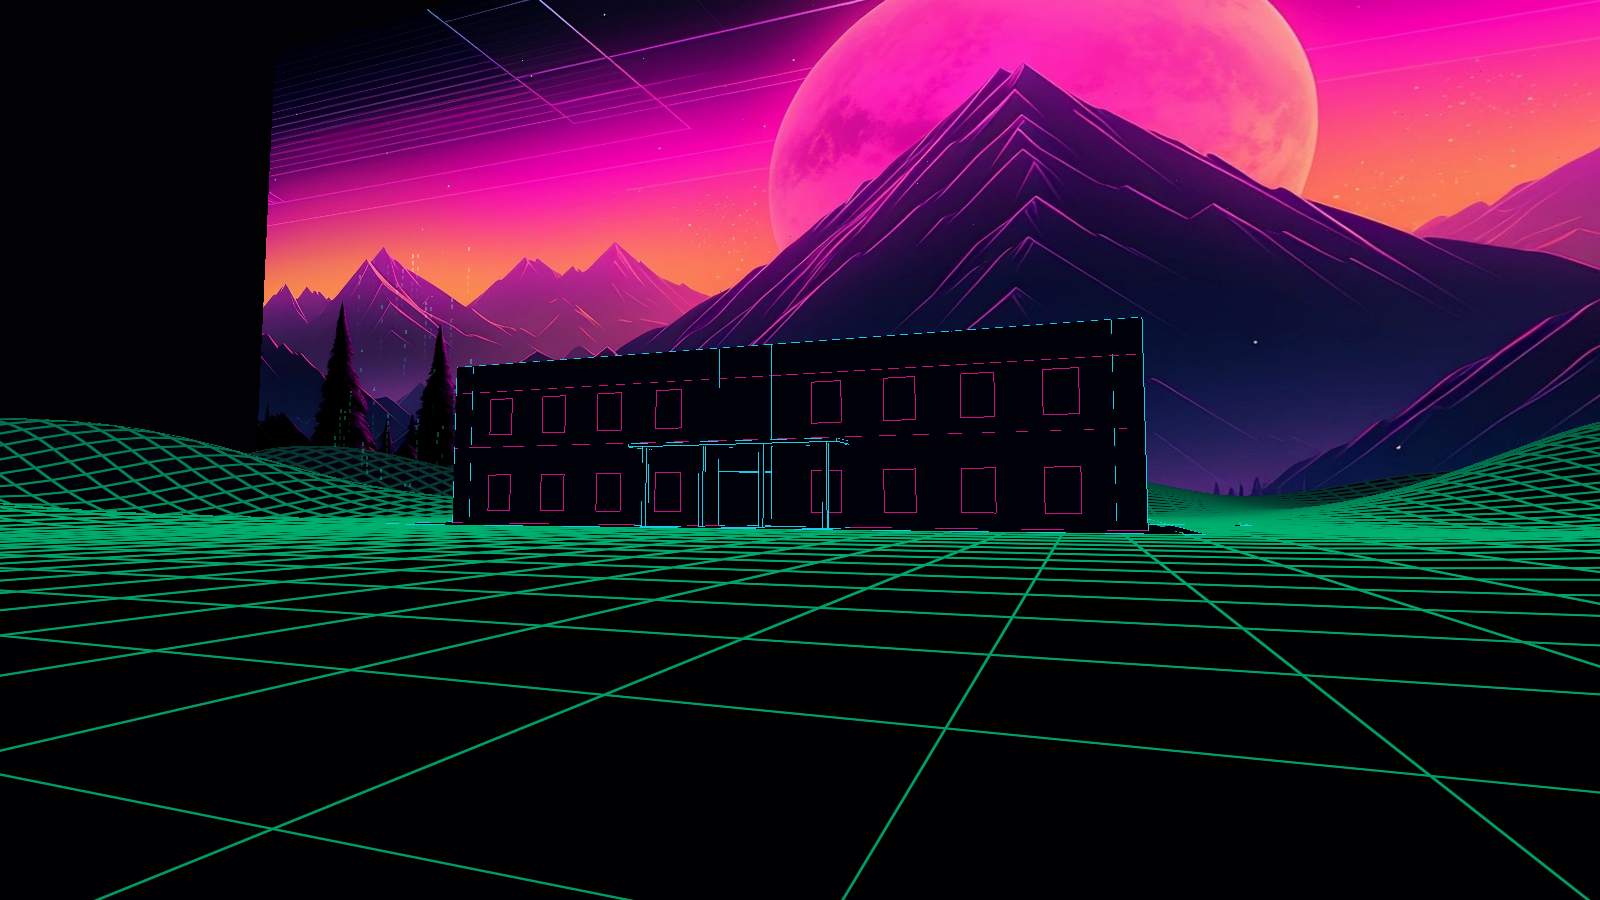
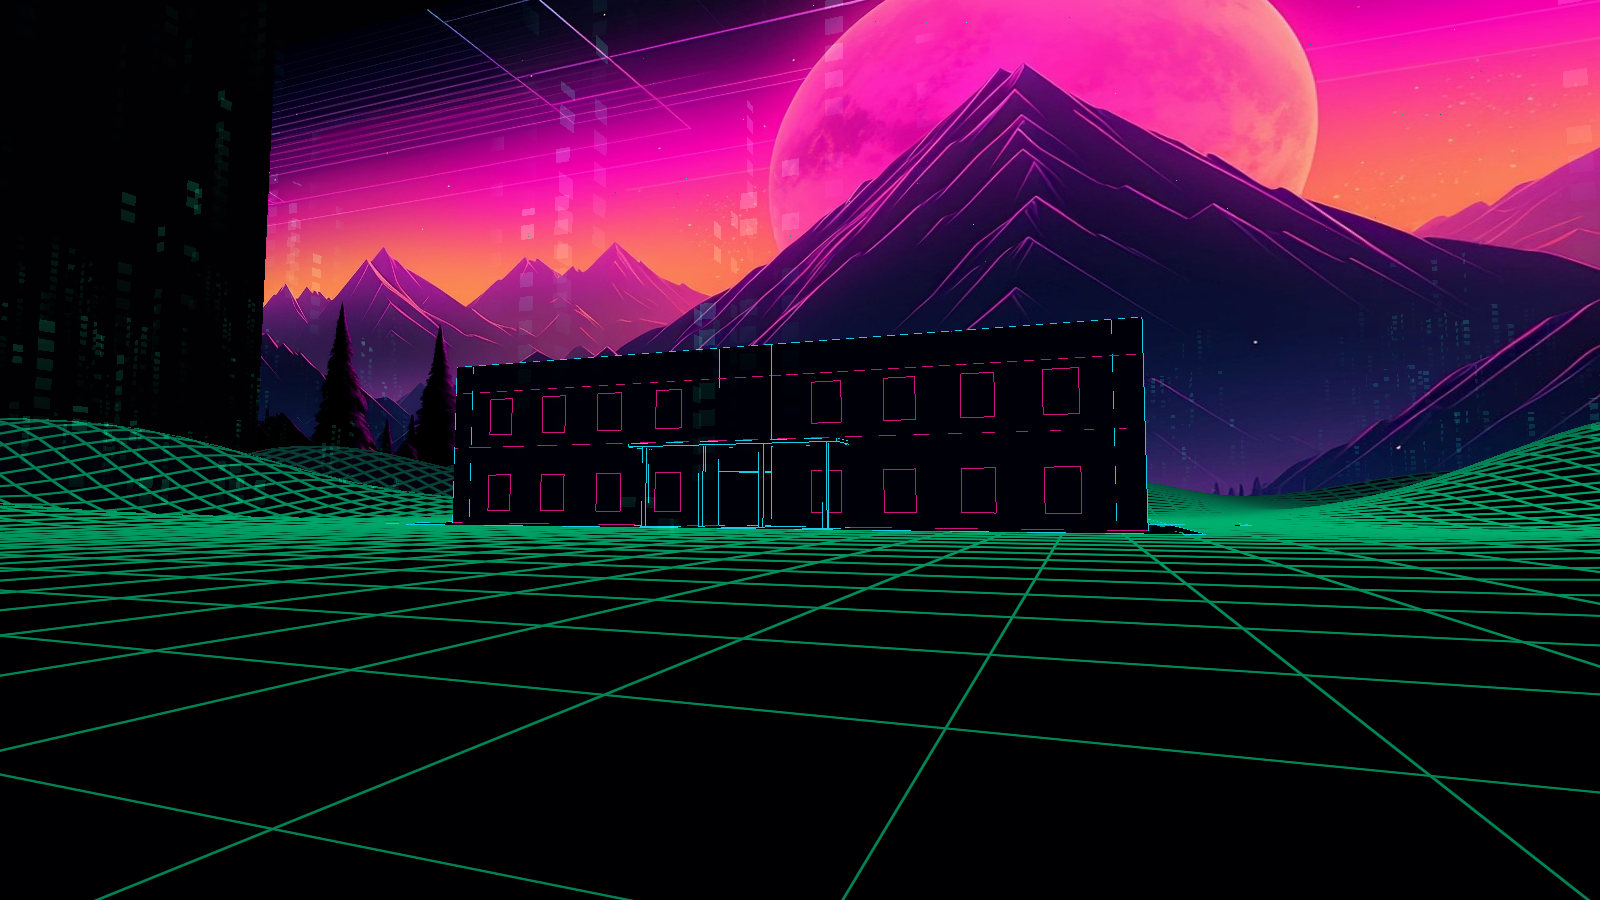
Extend upward data rain across exterior terrain

diff --git a/HANDOVER.md b/HANDOVER.md
@@ -98,3 +98,7 @@ Added provisional mansion.gd and unchanged plan snapshot. Main rectangle 51.2 x 
 Validation found blueprint outside-wall thickness1.67 conflicts with inside room extents: rear intrusion0.05 m, front up to0.20 m. Asked James whether to extend shell or thin those walls; no answer yet. Do not claim full capacity or silently resolve. Oval wall fit/roof closure also needs final envelope verification. Terrain foundation leaves basement volume open but traversal is not tested.
 Latest requested library check: found updated mansion plans; all14 files match the earlier mansion map plans folder byte-for-byte (including layout SHA256 5AF52B6A5DE686983F92C19EF63FC14845502DEFA13B038A9960F98702AD9F6F). No revised geometry available yet.
 Godot actual windowed capture passed after correcting an indentation error: exterior.png and mansion_first_person.png. No runtime script errors on final capture. Need resolve dimensions then verify full enclosure before promoting shell to approved production geometry.
+
+### 14 October 2026 — upward rain approved as standard exterior ambience
+James approved the existing upward-flowing effect as normal ambience throughout outdoor walking, not only nightmare mode. Replaced the two distant cards with deterministic world-anchored crossed patches distributed across the 240 m square. Independent phase, soft edges, near-camera fade and distant fade; mansion/porch/terrace region excluded so indoor effects remain separate. Original simplified rain shader retained; no emoji generator port or indoor mode triggers implemented.
+Verified actual Godot windowed eye-height capture, normal exit and no script/shader errors. Walking controls still absent; no playable traversal or performance benchmark claimed. Source artwork's finite horizon card is still visible at oblique camera angles and needs a future panoramic treatment for unrestricted first-person viewing. Mansion fit issues remain pending as previously recorded.

diff --git a/previews/exterior/README.md b/previews/exterior/README.md
@@ -12,3 +12,5 @@ See licenses/PROVENANCE.md for artwork source and pending licence evidence.
 ## Mansion shell (provisional)
 Mansion geometry now added from plans/mansion_layout.json: four level volumes reserved, no rooms built. --near selects a 1.7 m eye-height review camera, not a playable FPS controller. Pending plan wall-thickness conflict (up to 20 cm room overlap); shell must not be treated as fully room-fit validated. See HANDOVER.md for outstanding envelope checks.
 Source: C:/GitHub/godot-ai-libary/mansion map plans/layout.json. The updated mansion plans copy was checked and is identical. Floor heights remain blueprint suggestions.
+
+Outdoor upward rain is now standard ambience across the terrain, using crossed world-space patches with independent phase and proximity fading. Mansion interior is excluded. This supersedes the original two-curtain setup. Walking controls and full panoramic horizon treatment remain pending.
